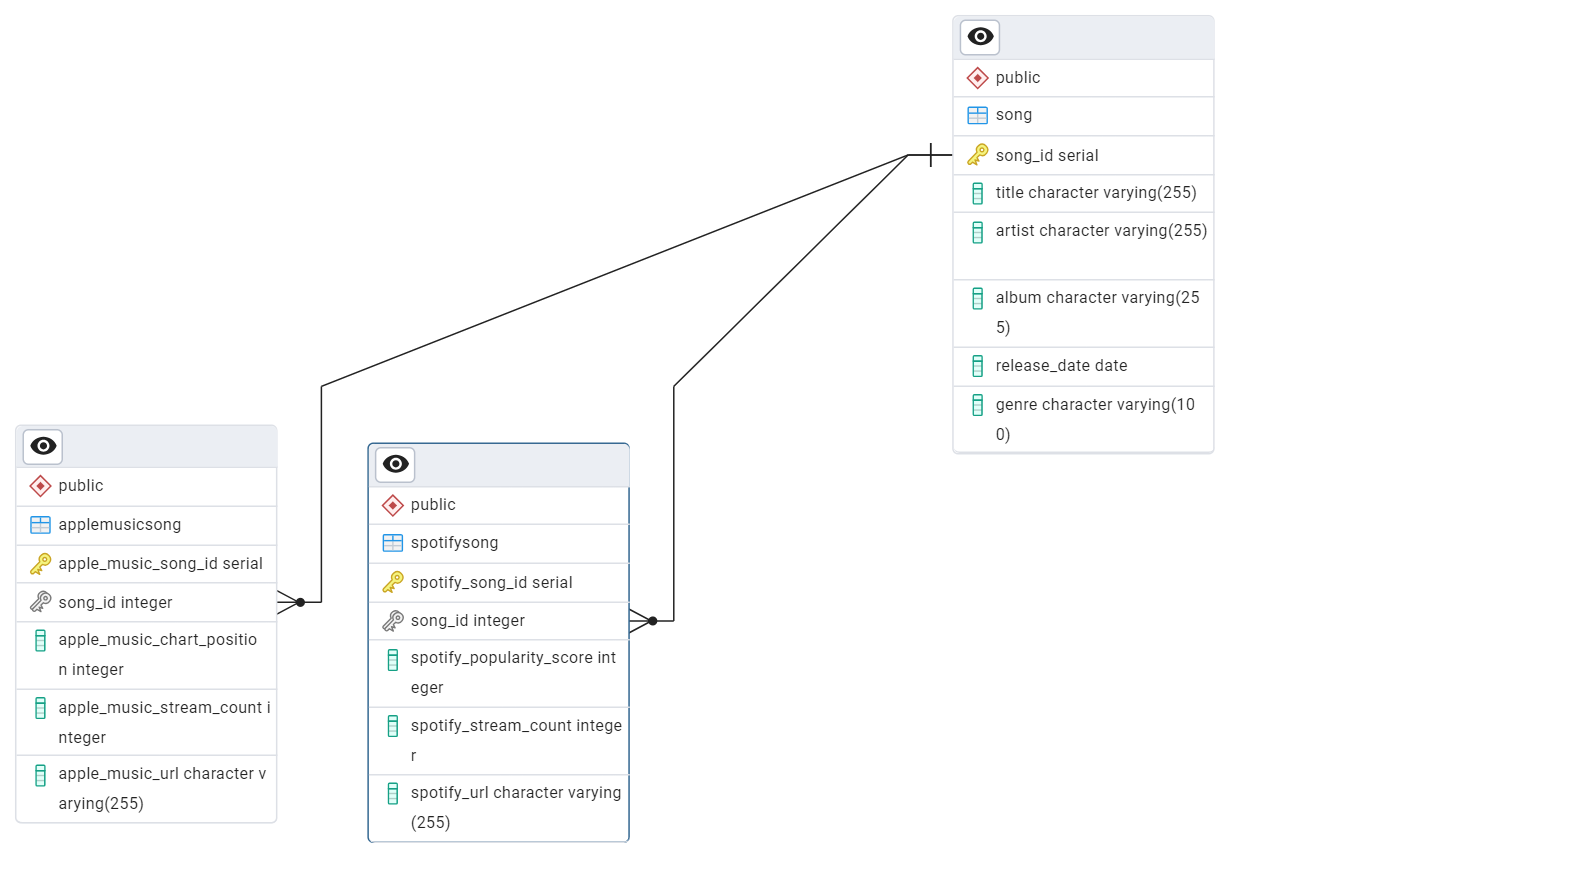
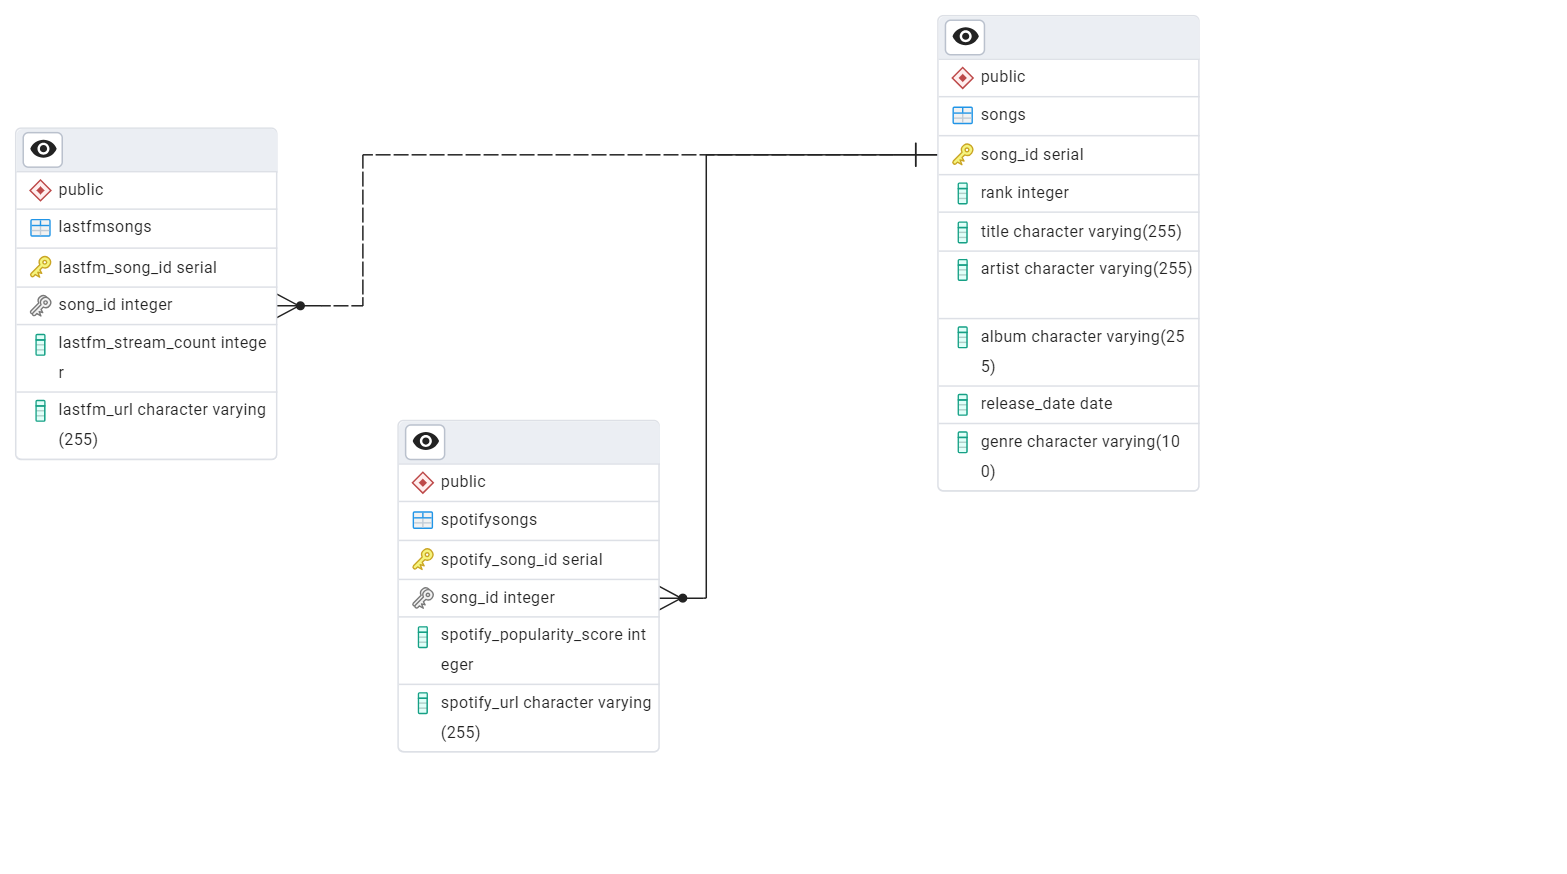
Added lastfm table, modified erd and queries nb

diff --git a/create_tables.py b/create_tables.py
@@ -19,7 +19,7 @@ def create_tables(connection):
     with connection.cursor() as cursor:
         # Create Song table with auto-increment id
         cursor.execute(''' 
-            CREATE TABLE IF NOT EXISTS Song (
+            CREATE TABLE IF NOT EXISTS Songs (
                 song_id SERIAL PRIMARY KEY,
                 rank INT NOT NULL,
                 title VARCHAR(255),
@@ -34,9 +34,9 @@ def create_tables(connection):
 
         # Create Spotify-specific song table with auto-increment id
         cursor.execute(''' 
-            CREATE TABLE IF NOT EXISTS SpotifySong (
+            CREATE TABLE IF NOT EXISTS SpotifySongs (
                 spotify_song_id SERIAL PRIMARY KEY,
-                song_id INT REFERENCES Song(song_id),
+                song_id INT REFERENCES Songs(song_id),
                 spotify_popularity_score INT CHECK (spotify_popularity_score >= 0 AND spotify_popularity_score <=100),
                 spotify_url VARCHAR(255)
             ); 
@@ -44,16 +44,16 @@ def create_tables(connection):
         print('SpotifySong table created successfully')
         connection.commit()
 
-        # Create Soundcloud-specific song table with auto-increment id
+        # Create Lastfm-specific song table with auto-increment id
         cursor.execute(''' 
-            CREATE TABLE IF NOT EXISTS SoundCloudSong (
-                soundcloud_song_id SERIAL PRIMARY KEY,
-                song_id INT REFERENCES Song(song_id),
-                soundcloud_stream_count INT CHECK (soundcloud_stream_count >= 0),
-                soundcloud_url VARCHAR(255)
+            CREATE TABLE IF NOT EXISTS LastfmSongs (
+                lastfm_song_id SERIAL PRIMARY KEY,
+                song_id INT REFERENCES Songs(song_id),
+                lastfm_stream_count INT CHECK (lastfm_stream_count >= 0),
+                lastfm_url VARCHAR(255)
             );
         ''')
-        print('AppleMusicSong table created successfully')
+        print('Lastfm table created successfully')
         connection.commit()
 
 
